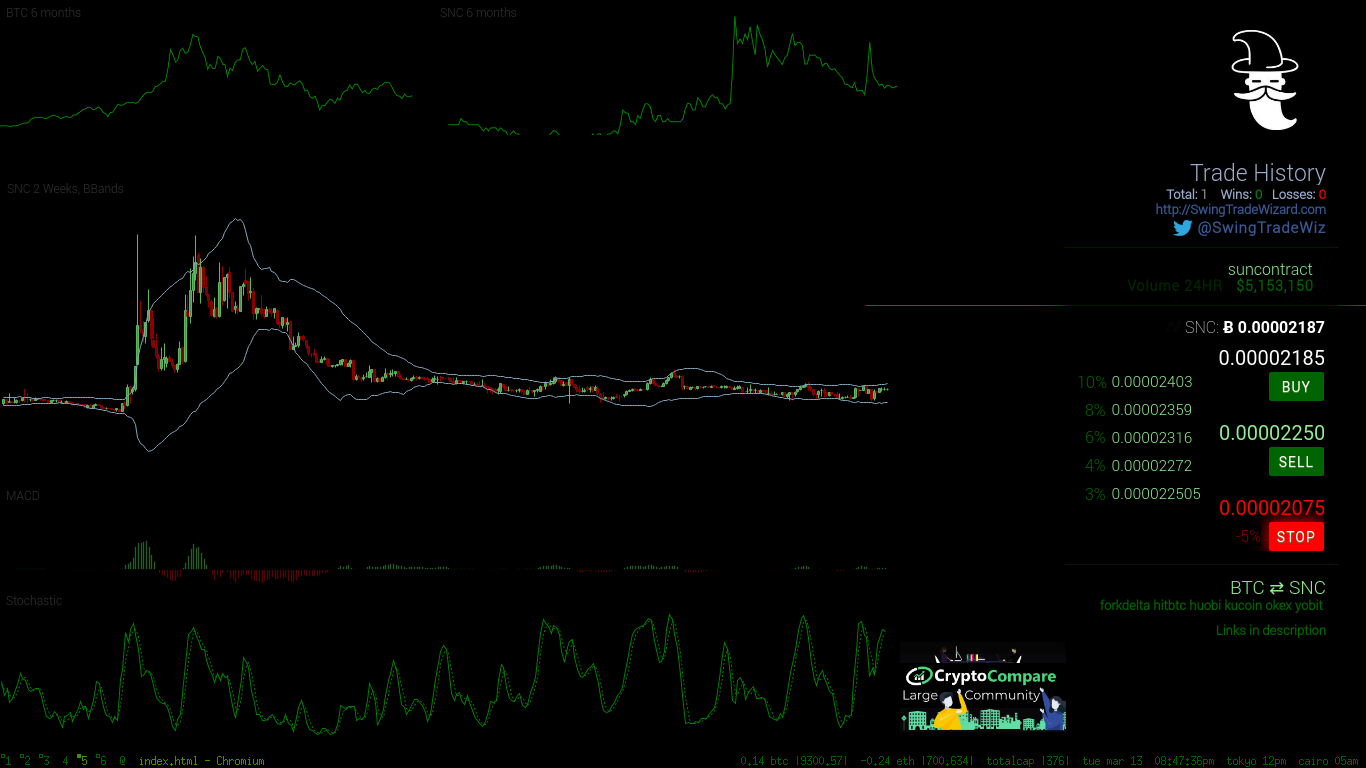
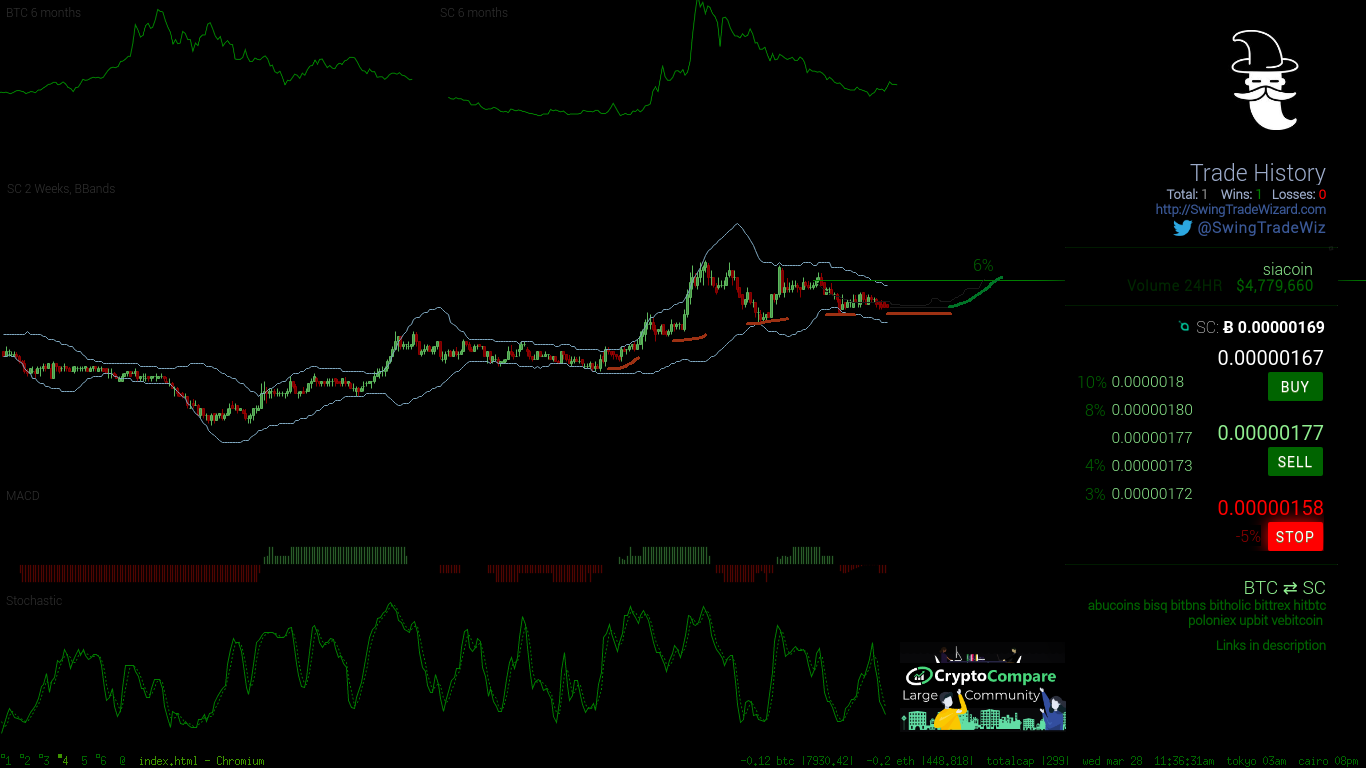
update

diff --git a/blog/Trades/2.html b/blog/Trades/2.html
@@ -46,14 +46,14 @@ Chart Feed
 </div>
 </center>
 </div>
-<title>STU Trade #1</title>
+<title>SC Trade #2</title>
 <!-- Header -->
 <div class='header'>
-	[ <a href='../Trades.html'>Prev</a> ]
+	[ <a href='./1.html'>Prev</a> ]
 
 	[ <span class='insen'>Index</span> ]
 
-	[ <a href='./2.html'>Next</a> ]
+	[ <span class='insen'>Next</span> ]
 </div>
 
 <hr />
@@ -70,8 +70,8 @@ Chart Feed
 <li><a href="../Swing_Trading.html" title="Swing Trading" class="page">Swing Trading</a></li>
 <li><a href="../Trades.html" title="Trades" class="page">Trades</a>
 <ul>
-<li><b>1</b></li>
-<li><a href="./2.html" title="2" class="page">2</a></li>
+<li><a href="./1.html" title="1" class="page">1</a></li>
+<li><b>2</b></li>
 </ul></li>
 </ul>
 
@@ -81,7 +81,7 @@ Chart Feed
 
 <div class='pages'>
 	<div class='heading'>
-	<h1>STU Trade #1 <a name='Trades:1'></a></h1>
+	<h1>SC Trade #2 <a name='Trades:2'></a></h1>
 	</div>
 
 	<div class='content'>
@@ -90,22 +90,22 @@ Chart Feed
 </p>
 
 <p>
-STU
+SC
 </p>
 
 <p>
 <tt>BUY</tt><br>
-<u> 0.00000404  </u>
+<u> 0.00000167  </u>
 </p>
 
 <p>
-<tt>SELL +8%</tt><br>
-<u> 0.0000044 </u>
+<tt>SELL +5%</tt><br>
+<u> 0.00000177 </u>
 </p>
 
 <p>
 <tt>STOP -5%</tt><br>
-<u> 0.0000038 </u>
+<u> 0.00000158 </u>
 </p>
 
 <p>
@@ -120,7 +120,7 @@ if(appName==""){appName="local";}
 var s = document.createElement("script");
 s.type = "text/javascript";
 s.async = true;
-var theUrl = baseUrl+'serve/v1/coin/list?fsym=STU&tsyms=BTC,USD,EUR';
+var theUrl = baseUrl+'serve/v1/coin/list?fsym=SC&tsyms=BTC,USD,EUR';
 s.src = theUrl + ( theUrl.indexOf("?") >= 0 ? "&" : "?") + "app=" + appName;
 embedder.parentNode.appendChild(s);
 })();
@@ -130,34 +130,38 @@ embedder.parentNode.appendChild(s);
 
 
 
-<h2>STU Analysis Video</h2>
-<a target="_blank" href="https://www.youtube.com/embed/KoubuX0imcs">Watch in fullscreen</a> - <a href="https://www.youtube.com/watch?v=KoubuX0imcs&list=PLIEgpo-TeCASQPjHL_tQ7Z6Hk3eOtE7TP" target="_blank">Watch in playlist</a><br><br>
-<div class="video-container"><iframe width="853" height="480" src="https://www.youtube.com/embed/KoubuX0imcs" frameborder="0"></iframe></div>
-<h2>STU Analysis Screenshot</h2>
-<a target="_blank" href="http://swingtradewizard.com/images/1.png">Open full size</a><br><br>
-<img style="width:500px;" src="http://swingtradewizard.com/images/1.png">
-<br><br><a href='https://www.cryptocompare.com/coins/stu/charts/BTC?t=CS&e=CCCAGG&p=2W&bc=VF' target='_blank'>View chart on Crypto Compare</a>
-<br><h2>STU Researching</h2>
-<a target="_blank" href="https://hn.algolia.com/?query=%22student+coin%22&sort=byDate&prefix=false&page=0&dateRange=all&type=story">Hackernews search</a><br>
-<a target="_blank" href="https://news.google.com/news/search/section/q/STU">Google News</a><br>
-<a target="_blank" href="https://trends.google.com/trends/explore?date=today%203-m&q=%22student+coin%22,STU">Google trends 90 day</a><br>
-<a target="_blank" href="https://www.google.com/search?q=site:https://bitcointalk.org+%22student+coin%22+OR+STU&source=lnt&tbs=qdr:w">bitcointalk forum posts this week</a><br>
-<a target="_blank" href="https://warosu.org/biz/?task=search&ghost=&search_text=STU+OR+%22student+coin%22">4chan /biz/ archive</a><br>
-<a target="_blank" href="https://www.reddit.com/search?q=STU+or+%22student+coin%22&sort=top&restrict_sr=&t=week">Reddit top week</a><br>
-<a target="_blank" href="http://bitreddit.com/coin/STU">Coin popularity on Reddit </a><br>
-<a target="_blank" href="https://twitter.com/search?f=tweets&q=STU%20OR%20%22student+coin%22%20lang%3Aen%20min_faves%3A10">Twitter +10 faves</a><br>
-<a target="_blank" href="https://twitter.com/search?f=users&vertical=default&q=STU%20OR%20%22student+coin%22%20lang%3Aen">Twitter people search</a>
+<h2>SC Analysis Video</h2>
+<a target="_blank" href="https://www.youtube.com/embed/YOUTUBEEM">Watch in fullscreen</a> - <a href="https://www.youtube.com/watch?v=YOUTUBEEM&list=PLIEgpo-TeCASQPjHL_tQ7Z6Hk3eOtE7TP" target="_blank">Watch in playlist</a><br><br>
+<div class="video-container"><iframe width="853" height="480" src="https://www.youtube.com/embed/YOUTUBEEM" frameborder="0"></iframe></div>
+<h2>SC Analysis Screenshot</h2>
+<a target="_blank" href="http://swingtradewizard.com/images/2.png">Open full size</a><br><br>
+<img style="width:500px;" src="http://swingtradewizard.com/images/2.png">
+<br><br><a href='https://www.cryptocompare.com/coins/sc/charts/BTC?t=CS&e=CCCAGG&p=2W&bc=VF' target='_blank'>View chart on Crypto Compare</a>
+<br><h2>SC Researching</h2>
+<a target="_blank" href="https://hn.algolia.com/?query=%22siacoin%22&sort=byDate&prefix=false&page=0&dateRange=all&type=story">Hackernews search</a><br>
+<a target="_blank" href="https://news.google.com/news/search/section/q/SC">Google News</a><br>
+<a target="_blank" href="https://trends.google.com/trends/explore?date=today%203-m&q=%22siacoin%22,SC">Google trends 90 day</a><br>
+<a target="_blank" href="https://www.google.com/search?q=site:https://bitcointalk.org+%22siacoin%22+OR+SC&source=lnt&tbs=qdr:w">bitcointalk forum posts this week</a><br>
+<a target="_blank" href="https://warosu.org/biz/?task=search&ghost=&search_text=SC+OR+%22siacoin%22">4chan /biz/ archive</a><br>
+<a target="_blank" href="https://www.reddit.com/search?q=SC+or+%22siacoin%22&sort=top&restrict_sr=&t=week">Reddit top week</a><br>
+<a target="_blank" href="http://bitreddit.com/coin/SC">Coin popularity on Reddit </a><br>
+<a target="_blank" href="https://twitter.com/search?f=tweets&q=SC%20OR%20%22siacoin%22%20lang%3Aen%20min_faves%3A10">Twitter +10 faves</a><br>
+<a target="_blank" href="https://twitter.com/search?f=users&vertical=default&q=SC%20OR%20%22siacoin%22%20lang%3Aen">Twitter people search</a>
 
 </p>
 
-<h2>STU Exchanges</h2>
+<h2>SC Exchanges</h2>
 
 <p>
-🔸 <a href="http://swingtradewizard.com/yobit/" title="http://swingtradewizard.com/yobit/" class="http">http://swingtradewizard.com/yobit/</a><br>
-🔸 <a href="http://swingtradewizard.com/hitbtc/" title="http://swingtradewizard.com/hitbtc/" class="http">http://swingtradewizard.com/hitbtc/</a><br>
-🔸 <a href="http://swingtradewizard.com/qryptos/" title="http://swingtradewizard.com/qryptos/" class="http">http://swingtradewizard.com/qryptos/</a><br>
-🔸 <a href="http://swingtradewizard.com/idex/" title="http://swingtradewizard.com/idex/" class="http">http://swingtradewizard.com/idex/</a><br>
-🔸 <a href="http://swingtradewizard.com/radar-relay/" title="http://swingtradewizard.com/radar-relay/" class="http">http://swingtradewizard.com/radar-relay/</a>
+🔸 <a href="http://swingtradewizard.com/bisq/" title="http://swingtradewizard.com/bisq/" class="http">http://swingtradewizard.com/bisq/</a><br>
+🔸 <a href="http://swingtradewizard.com/bittrex/" title="http://swingtradewizard.com/bittrex/" class="http">http://swingtradewizard.com/bittrex/</a><br>
+🔸 <a href="http://swingtradewizard.com/bitholic/" title="http://swingtradewizard.com/bitholic/" class="http">http://swingtradewizard.com/bitholic/</a><br>
+🔸 <a href="http://swingtradewizard.com/poloniex/" title="http://swingtradewizard.com/poloniex/" class="http">http://swingtradewizard.com/poloniex/</a><br>
+🔸 <a href="http://swingtradewizard.com/upbit/" title="http://swingtradewizard.com/upbit/" class="http">http://swingtradewizard.com/upbit/</a><br>
+🔸 <a href="http://swingtradewizard.com/bitbns/" title="http://swingtradewizard.com/bitbns/" class="http">http://swingtradewizard.com/bitbns/</a><br>
+🔸 <a href="http://swingtradewizard.com/abucoins/" title="http://swingtradewizard.com/abucoins/" class="http">http://swingtradewizard.com/abucoins/</a><br>
+🔸 <a href="http://swingtradewizard.com/vebitcoin/" title="http://swingtradewizard.com/vebitcoin/" class="http">http://swingtradewizard.com/vebitcoin/</a><br>
+🔸 <a href="http://swingtradewizard.com/hitbtc/" title="http://swingtradewizard.com/hitbtc/" class="http">http://swingtradewizard.com/hitbtc/</a>
 </p>
 
 	</div>

diff --git a/index.htm b/index.htm
@@ -22,7 +22,7 @@
 
 
 <div class="stats">
-trades: <span class="banner-black" style="color:#6697b4">1 &nbsp;</span> wins: <span class="banner-green">1 &nbsp;</span> losses: <span class="banner-red">0 &nbsp;</span>  
+trades: <span class="banner-black" style="color:#6697b4">2 &nbsp;</span> wins: <span class="banner-green">1 &nbsp;</span> losses: <span class="banner-red">0 &nbsp;</span>  
 </div>
 
 
@@ -62,6 +62,7 @@ Chart Feed
 
 <div class="table_container">
 <table cellspacing="0" cellpadding="0">
+<tr id="neutral"><td><a name=2 href=http://swingtradewizard.com/blog/Trades/2.html>#2 siacoin</a></td><td><span data-livestamp="1522262205"></span></td><td>0.00000167 </td><td>0.00000177</td><td>0.00000158</td><td>NEUTRALTRADE</td><td><br></td></tr>
 <tr id="win"><td><a name=1 href=http://swingtradewizard.com/blog/Trades/1.html>#1 student-coin</a></td><td><span data-livestamp="1521005278"></span></td><td>0.00000404 </td><td>0.0000044</td><td>0.0000038</td><td>WINTRADE</td><td><span data-livestamp="1521005281"></span></td><td><br></td></tr>
 </table>
 <title>Hello</title>

diff --git a/blog/Trades.html b/blog/Trades.html
@@ -21,7 +21,7 @@
 
 
 <div class="stats">
-trades: <span class="banner-black" style="color:#6697b4">1 &nbsp;</span> wins: <span class="banner-green">1 &nbsp;</span> losses: <span class="banner-red">0 &nbsp;</span>  
+trades: <span class="banner-black" style="color:#6697b4">2 &nbsp;</span> wins: <span class="banner-green">1 &nbsp;</span> losses: <span class="banner-red">0 &nbsp;</span>  
 </div>
 
 
@@ -71,6 +71,7 @@ Chart Feed
 <li><b>Trades</b>
 <ul>
 <li><a href="./Trades/1.html" title="1" class="page">1</a></li>
+<li><a href="./Trades/2.html" title="2" class="page">2</a></li>
 </ul></li>
 </ul>
 

diff --git a/blog/Buy_BTC.html b/blog/Buy_BTC.html
@@ -21,7 +21,7 @@
 
 
 <div class="stats">
-trades: <span class="banner-black" style="color:#6697b4">1 &nbsp;</span> wins: <span class="banner-green">1 &nbsp;</span> losses: <span class="banner-red">0 &nbsp;</span>  
+trades: <span class="banner-black" style="color:#6697b4">2 &nbsp;</span> wins: <span class="banner-green">1 &nbsp;</span> losses: <span class="banner-red">0 &nbsp;</span>  
 </div>
 
 

diff --git a/blog/Chart_Feed.html b/blog/Chart_Feed.html
@@ -21,7 +21,7 @@
 
 
 <div class="stats">
-trades: <span class="banner-black" style="color:#6697b4">1 &nbsp;</span> wins: <span class="banner-green">1 &nbsp;</span> losses: <span class="banner-red">0 &nbsp;</span>  
+trades: <span class="banner-black" style="color:#6697b4">2 &nbsp;</span> wins: <span class="banner-green">1 &nbsp;</span> losses: <span class="banner-red">0 &nbsp;</span>  
 </div>
 
 

diff --git a/blog/Donate.html b/blog/Donate.html
@@ -21,7 +21,7 @@
 
 
 <div class="stats">
-trades: <span class="banner-black" style="color:#6697b4">1 &nbsp;</span> wins: <span class="banner-green">1 &nbsp;</span> losses: <span class="banner-red">0 &nbsp;</span>  
+trades: <span class="banner-black" style="color:#6697b4">2 &nbsp;</span> wins: <span class="banner-green">1 &nbsp;</span> losses: <span class="banner-red">0 &nbsp;</span>  
 </div>
 
 

diff --git a/blog/Forecasting_Wizards.html b/blog/Forecasting_Wizards.html
@@ -21,7 +21,7 @@
 
 
 <div class="stats">
-trades: <span class="banner-black" style="color:#6697b4">1 &nbsp;</span> wins: <span class="banner-green">1 &nbsp;</span> losses: <span class="banner-red">0 &nbsp;</span>  
+trades: <span class="banner-black" style="color:#6697b4">2 &nbsp;</span> wins: <span class="banner-green">1 &nbsp;</span> losses: <span class="banner-red">0 &nbsp;</span>  
 </div>
 
 

diff --git a/blog/Homepage.html b/blog/Homepage.html
@@ -21,7 +21,7 @@
 
 
 <div class="stats">
-trades: <span class="banner-black" style="color:#6697b4">1 &nbsp;</span> wins: <span class="banner-green">1 &nbsp;</span> losses: <span class="banner-red">0 &nbsp;</span>  
+trades: <span class="banner-black" style="color:#6697b4">2 &nbsp;</span> wins: <span class="banner-green">1 &nbsp;</span> losses: <span class="banner-red">0 &nbsp;</span>  
 </div>
 
 

diff --git a/blog/Resources.html b/blog/Resources.html
@@ -21,7 +21,7 @@
 
 
 <div class="stats">
-trades: <span class="banner-black" style="color:#6697b4">1 &nbsp;</span> wins: <span class="banner-green">1 &nbsp;</span> losses: <span class="banner-red">0 &nbsp;</span>  
+trades: <span class="banner-black" style="color:#6697b4">2 &nbsp;</span> wins: <span class="banner-green">1 &nbsp;</span> losses: <span class="banner-red">0 &nbsp;</span>  
 </div>
 
 

diff --git a/blog/Swing_Trading.html b/blog/Swing_Trading.html
@@ -21,7 +21,7 @@
 
 
 <div class="stats">
-trades: <span class="banner-black" style="color:#6697b4">1 &nbsp;</span> wins: <span class="banner-green">1 &nbsp;</span> losses: <span class="banner-red">0 &nbsp;</span>  
+trades: <span class="banner-black" style="color:#6697b4">2 &nbsp;</span> wins: <span class="banner-green">1 &nbsp;</span> losses: <span class="banner-red">0 &nbsp;</span>  
 </div>
 
 

diff --git a/blog/biz.html b/blog/biz.html
@@ -21,7 +21,7 @@
 
 
 <div class="stats">
-trades: <span class="banner-black" style="color:#6697b4">1 &nbsp;</span> wins: <span class="banner-green">1 &nbsp;</span> losses: <span class="banner-red">0 &nbsp;</span>  
+trades: <span class="banner-black" style="color:#6697b4">2 &nbsp;</span> wins: <span class="banner-green">1 &nbsp;</span> losses: <span class="banner-red">0 &nbsp;</span>  
 </div>
 
 

diff --git a/blog/exchanges.html b/blog/exchanges.html
@@ -21,7 +21,7 @@
 
 
 <div class="stats">
-trades: <span class="banner-black" style="color:#6697b4">1 &nbsp;</span> wins: <span class="banner-green">1 &nbsp;</span> losses: <span class="banner-red">0 &nbsp;</span>  
+trades: <span class="banner-black" style="color:#6697b4">2 &nbsp;</span> wins: <span class="banner-green">1 &nbsp;</span> losses: <span class="banner-red">0 &nbsp;</span>  
 </div>
 
 
